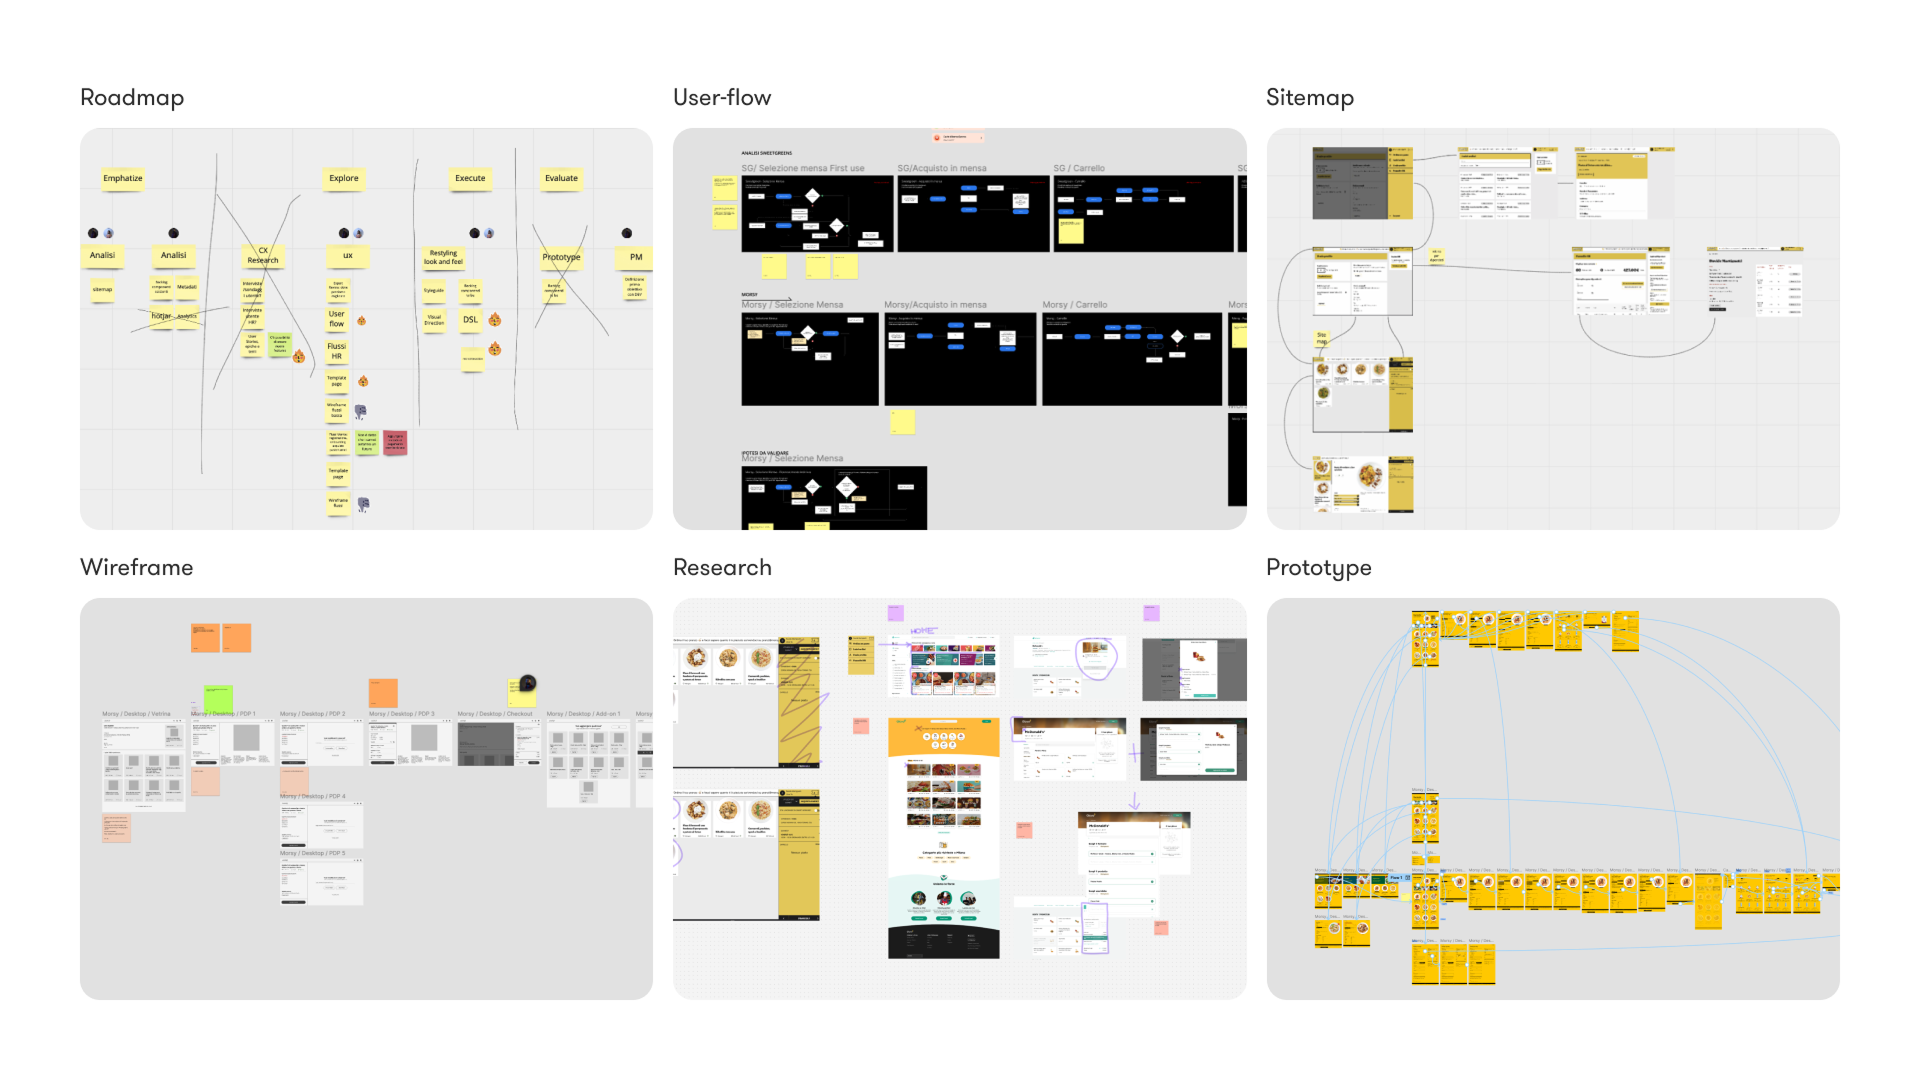
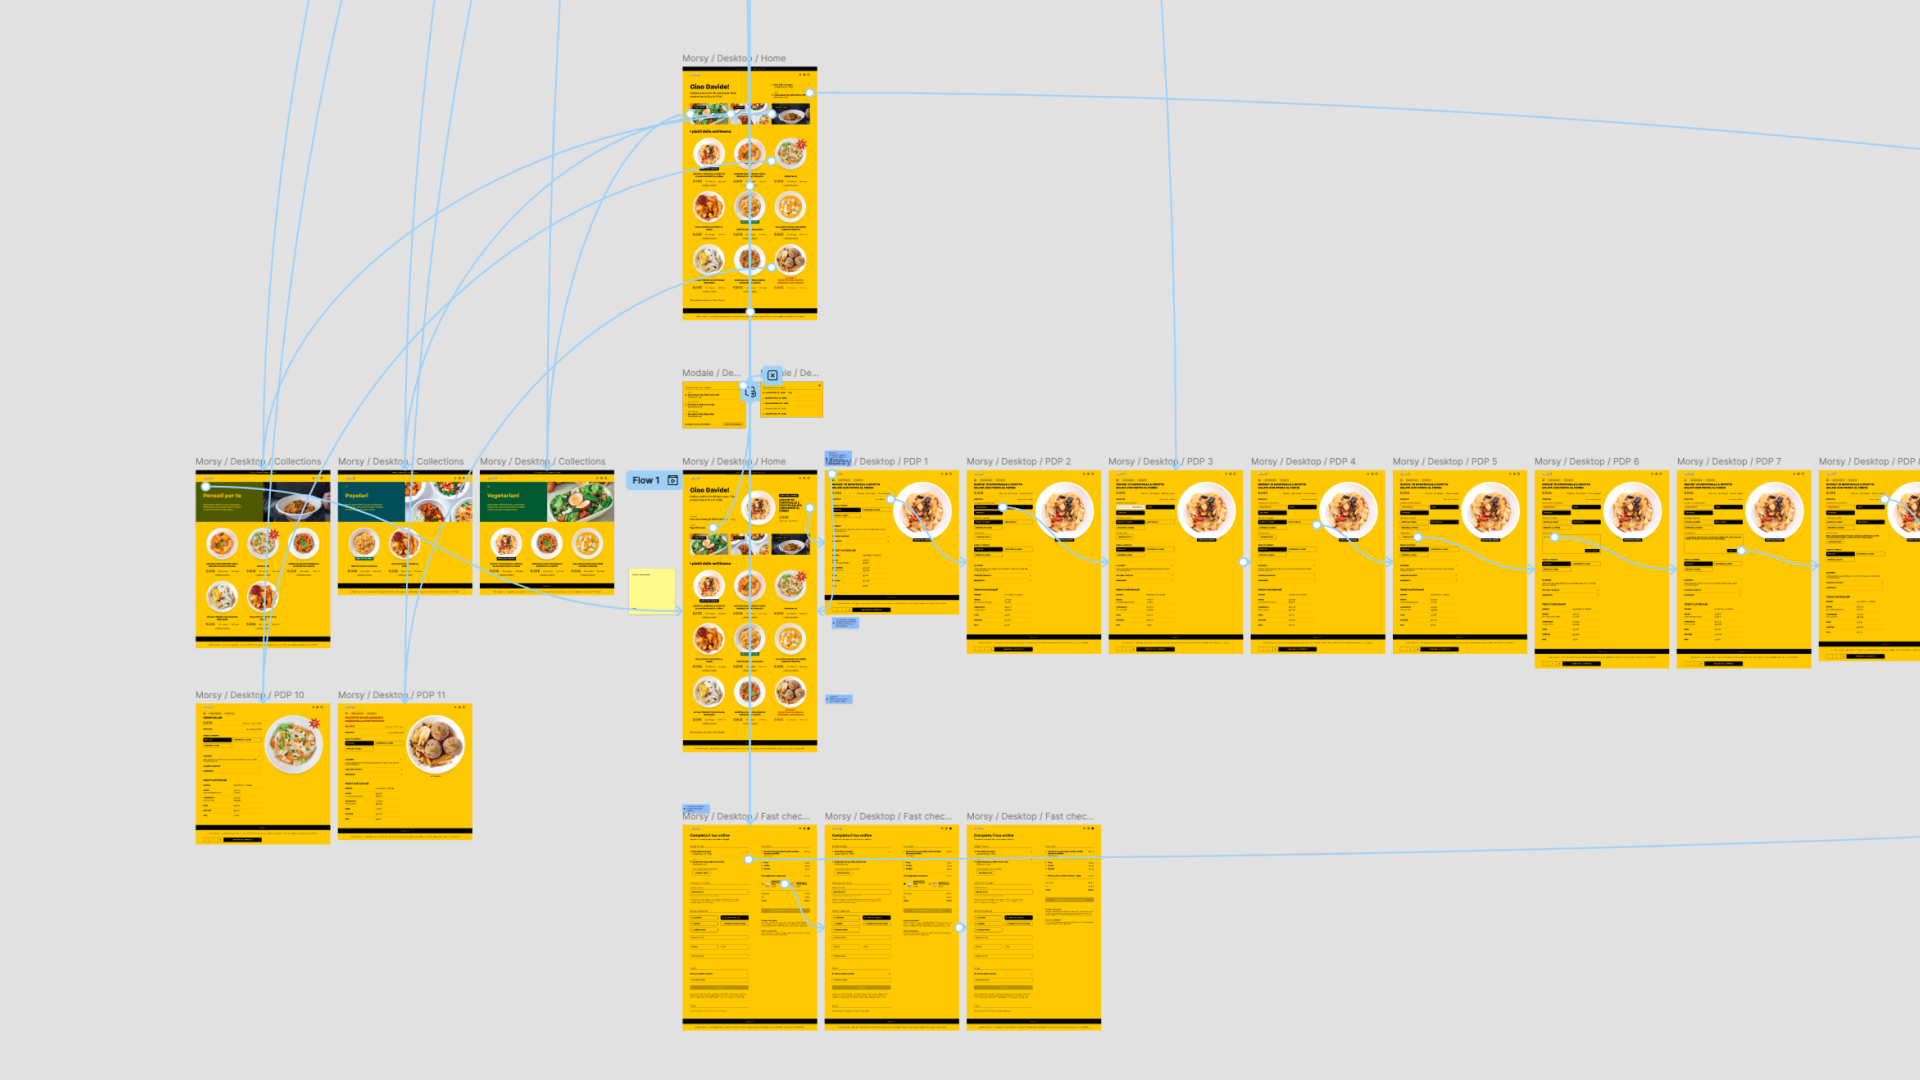
fix(content): aggiorna cover bulletin Morsy e correggi alt-text wireflow
- public/og/bulletin-morsy.png: sostituita con immagine reale (wireflow
  Figma stile, schermate gialle collegate Home→PDP→Collections→Checkout)
  attachment 66f7a094-aabb-4a58-a060-d8e92ad2b601
- morsy-brand-content-strategy.md: corretto alt-text immagine inline —
  rimossi riferimenti inesatti a "profilo utente e pannello HR"

diff --git a/src/content/bulletin/morsy-brand-content-strategy.md b/src/content/bulletin/morsy-brand-content-strategy.md
@@ -64,7 +64,7 @@ Tre lezioni che portiamo fuori dal progetto Morsy:
 
 Il lavoro di brand strategy e content management si è affiancato a un progetto più ampio che includeva CX experience, UX research, visual direction e design system. Il risultato è una presenza di brand coerente dall'interfaccia ai contenuti.
 
-![Wireflow completo dell'app Morsy: architettura dei flussi d'acquisto, profilo utente e pannello HR](/work/morsy/morsy-wireflow-completo.png)
+![Wireflow dell'app Morsy: schermate collegate dalla home ai PDP, alle collections e al checkout — brand identity gialla su sfondo neutro](/work/morsy/morsy-wireflow-completo.png)
 
 → [Morsy — il case study](/work/morsy) *(in arrivo)*
 
